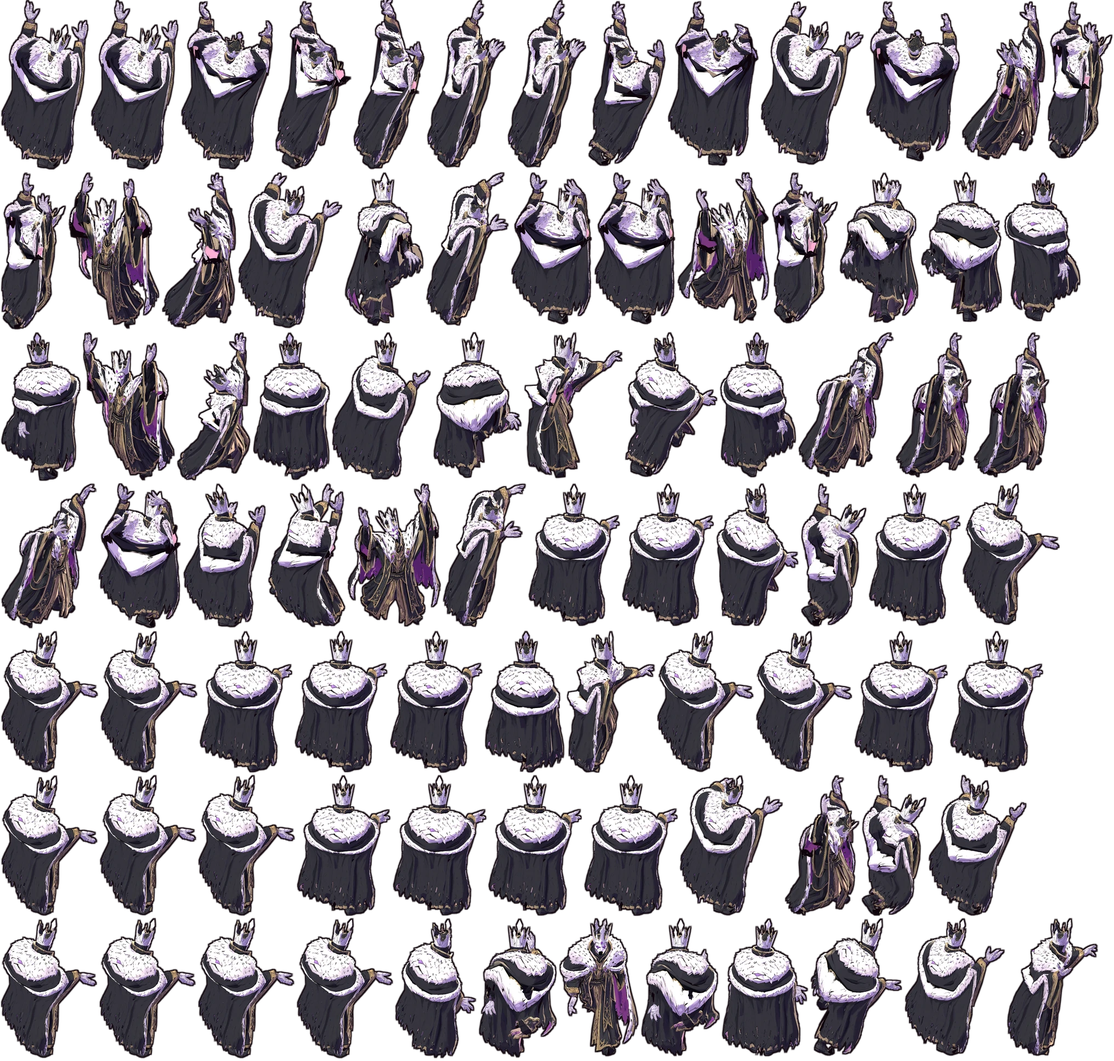
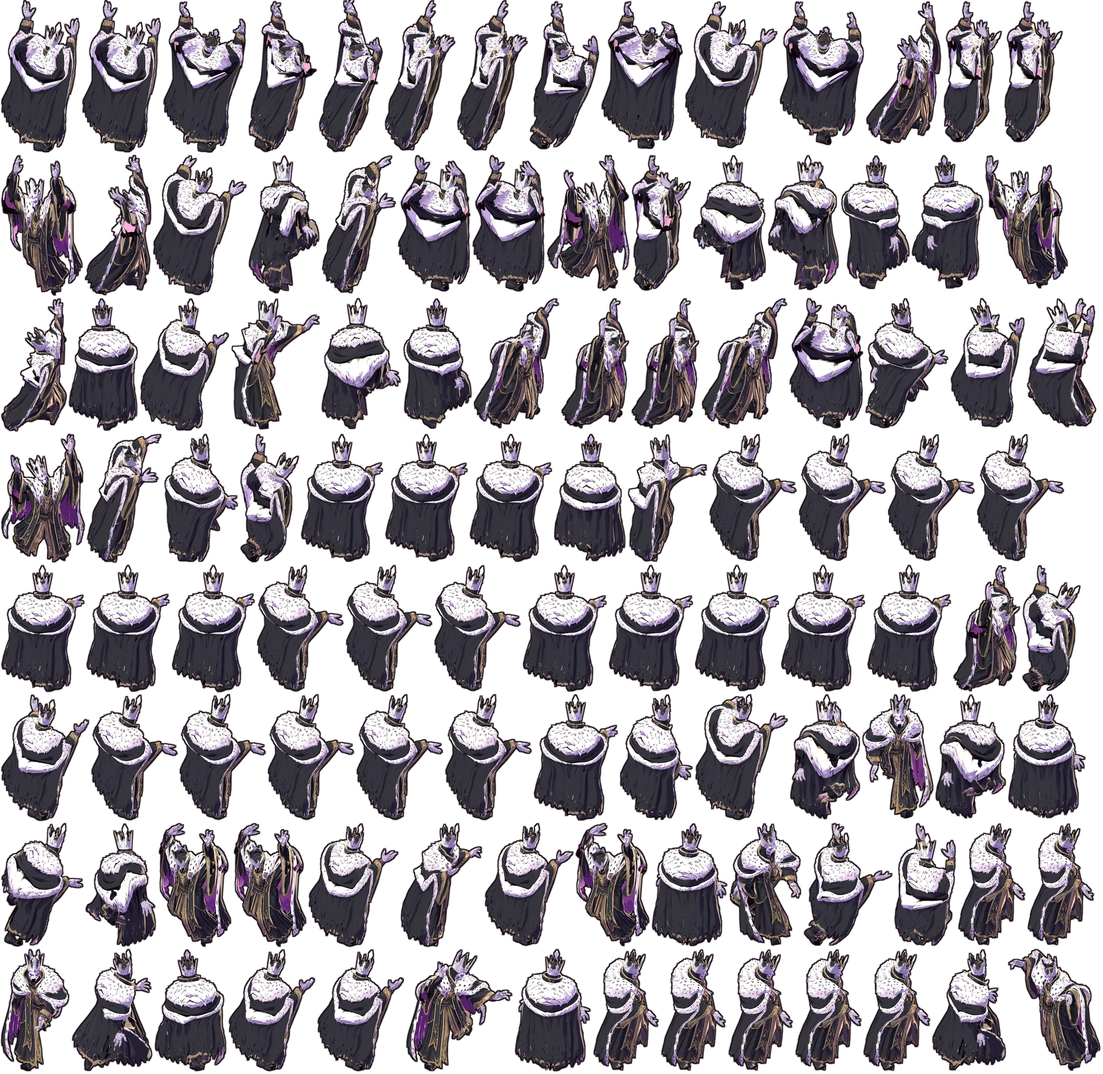
Shrink enemy atlases and drop unused single-pose art (APK under 100 MB); ship v0.3.0
Claude-Session: https://claude.ai/code/session_014p3JmkANN3PwZnEkVLEDDY

diff --git a/tools/anim/config.py b/tools/anim/config.py
@@ -131,5 +131,8 @@ C["regent"] = {
     },
 }
 
+# Downscale enemy atlases to roughly their on-screen size (keeps the APK under 100 MB).
+for _k, _s in {"brute": 0.65, "regent": 0.9, "shade": 0.75, "spitter": 0.9}.items():
+    C[_k]["out_scale"] = _s
 json.dump(C, open(os.path.join(os.path.dirname(os.path.abspath(__file__)), "chars.json"), "w"), indent=1)
 print("ok", list(C))
